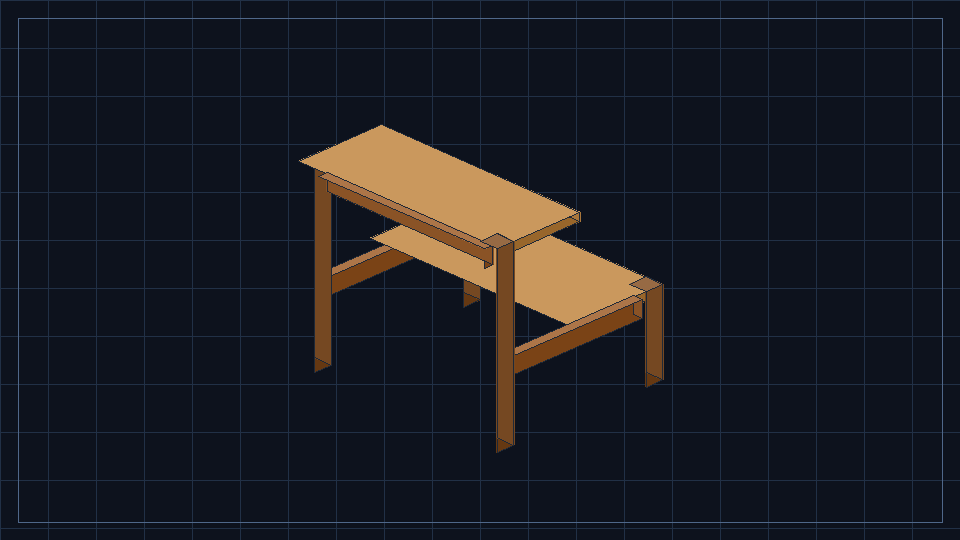
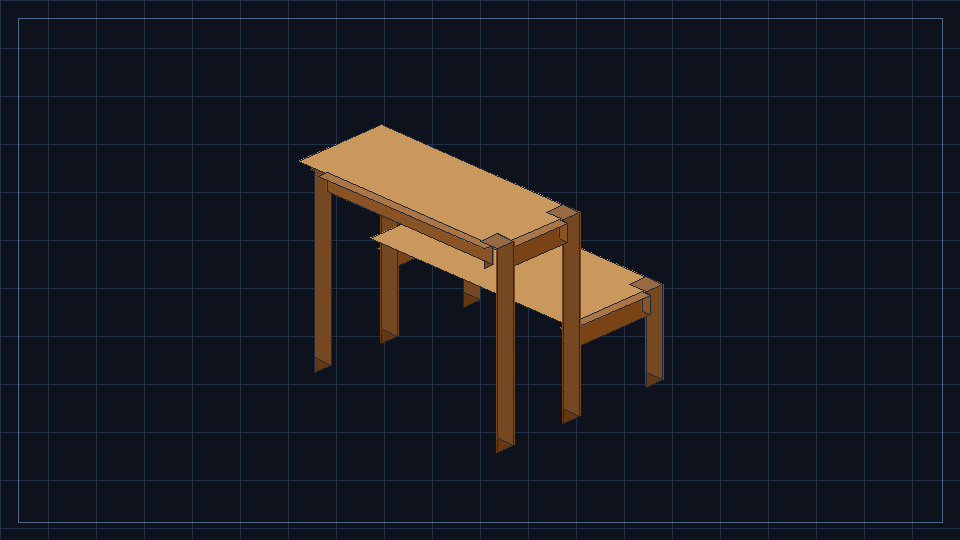
Add browser check and safer stool supports

Changed region(s): [[0.5312, 0.3852, 0.625, 0.8], [0.3438, 0.3852, 0.4375, 0.6519], [0.6562, 0.5333, 0.6875, 0.5926]]

diff --git a/src/app.js b/src/app.js
@@ -658,7 +658,7 @@ function renderStatus() {
   const status = $('#statusBar');
   const badges = [];
   if (result.ok) {
-    badges.push(`<span class="badge ok">Ready</span>`);
+    badges.push(result.warnings.length ? '<span class="badge warn">Needs review</span>' : '<span class="badge ok">Ready</span>');
     if (isGeneratedPlan()) badges.push(`<span class="badge">${isGeneratedStoolPlan() ? 'Two-step stool' : isGeneratedWallRackPlan() ? 'Wall rack' : 'Tray feeder'}</span>`);
     else if (isShelfPlan()) badges.push(`<span class="badge">Shelves: ${result.levels} levels, ${result.bays} bays</span>`);
     else badges.push(`<span class="badge">Outer: ${escapeHtml(formatLength(result.outerW, plan.unit))} x ${escapeHtml(formatLength(result.outerH, plan.unit))}</span>`);
